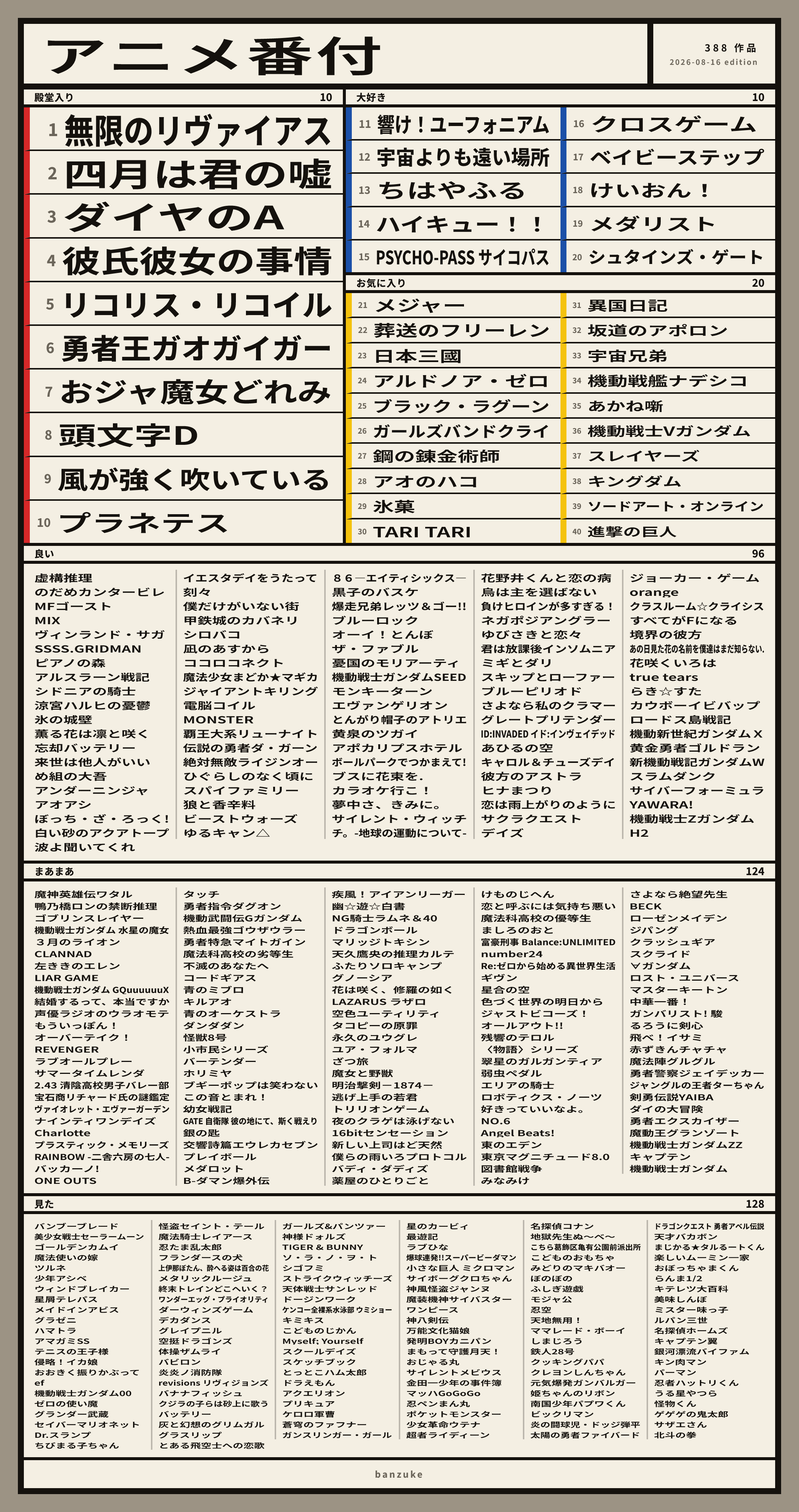
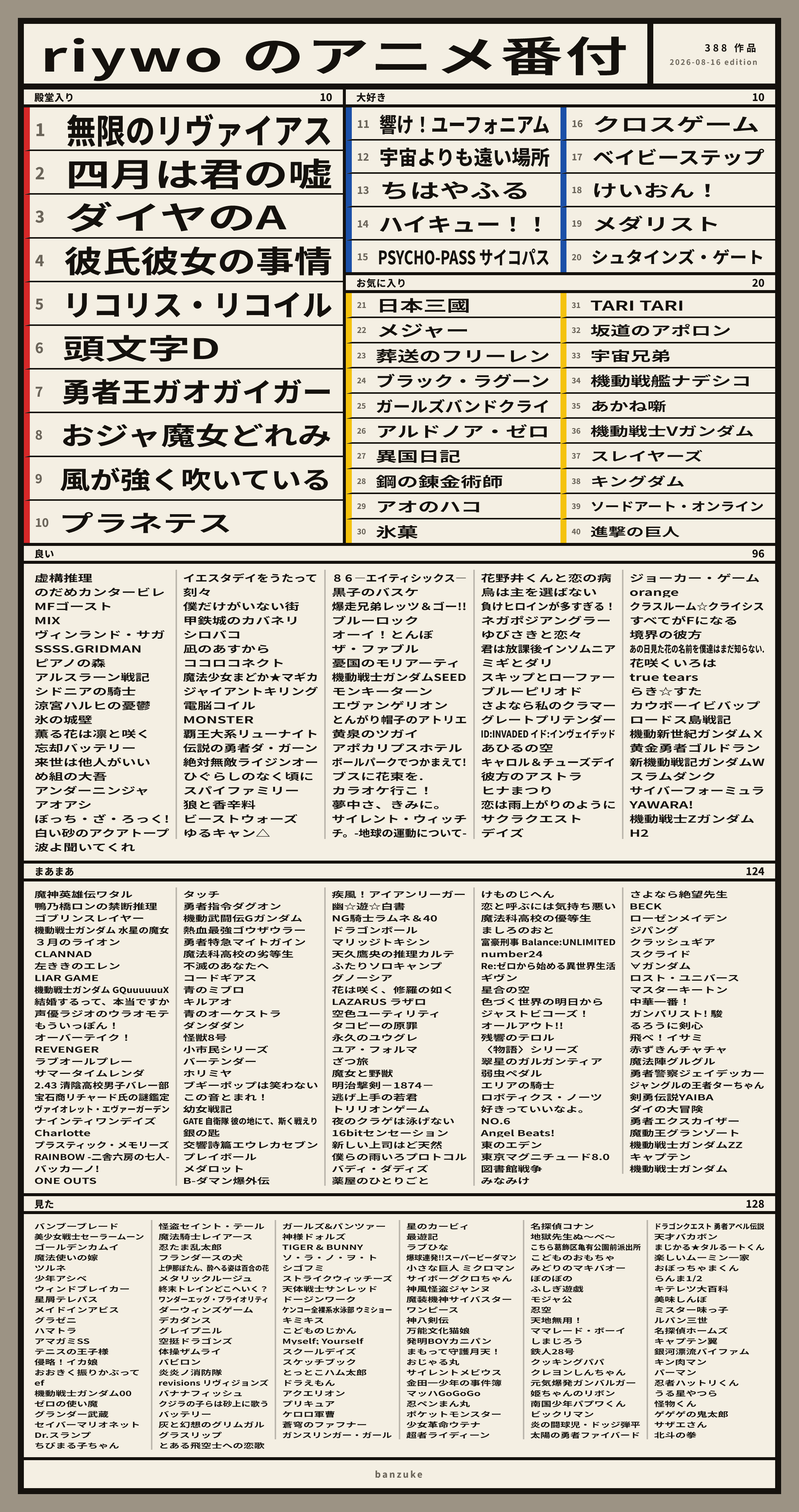
Retitle, reorder the top tiers, and fix the rank column
Data: title is now "riywo のアニメ番付", 頭文字D moves to #6 in 殿堂入り, and
お気に入り reshuffles (日本三國 to #21, アルドノア・ゼロ to #26, 異国日記 to #27).
README heading follows the new title.

Layout: rank numbers were right-aligned in a box sized for two digits, so
single digits sat 25px from the spine and only 8px from the title —
crowding the title with a void behind them, visible for #1-9 in 殿堂入り.
Set them flush left instead: 7px from the spine, 29px to the title. The box
is still sized for the widest number, so numbers and titles stay aligned
down the column. RANK_INDENT and RANK_GAP expose both distances.

Changed region(s): [[0.0625, 0.0, 0.6875, 0.3729], [0.5625, 0.0, 0.9375, 0.3729], [0.2188, 0.1243, 0.3438, 0.1554]]

diff --git a/banzuke.html b/banzuke.html
@@ -1,7 +1,7 @@
 <div style="width:1072px;background:#9c9384;padding:24px;font-family:'Banzuke Sans';color:#14110d">
   <div style="border:8px solid #14110d;background:#f4efe3;display:flex;flex-direction:column">
     <div style="height:88px;flex:none;display:flex;border-bottom:8px solid #14110d">
-      <div style="flex:1;min-width:0;overflow:hidden;display:flex;align-items:center;padding:0 22px;line-height:1.45"><span style="display:inline-block;white-space:nowrap;transform-origin:left center;font-size:56px;font-weight:632;font-family:'Banzuke Sans';letter-spacing:2px;transform:scaleX(1.6000);">アニメ番付</span></div>
+      <div style="flex:1;min-width:0;overflow:hidden;display:flex;align-items:center;padding:0 22px;line-height:1.45"><span style="display:inline-block;white-space:nowrap;transform-origin:left center;font-size:56px;font-weight:656;font-family:'Banzuke Sans';letter-spacing:2px;transform:scaleX(1.5028);">riywo のアニメ番付</span></div>
       <div style="flex:none;white-space:nowrap;display:flex;flex-direction:column;align-items:flex-end;justify-content:center;padding:0 22px;border-left:8px solid #14110d">
         <div style="font-size:13px;font-weight:700;letter-spacing:3.4px;">388 作品</div><div style="font-size:10px;font-weight:700;letter-spacing:1.5px;margin-top:3px;color:#6b655a;">2026-08-16 edition</div>
       </div>
@@ -13,35 +13,35 @@
     <div style="margin-left:auto;font-size:14px;font-weight:800">10</div>
   </div>
         <div style="flex:1;display:flex;flex-direction:column;min-width:0;min-height:0"><div style="flex:1;display:flex;align-items:center;min-height:0;overflow:hidden;border-left:8px solid #d62828;background:#f4efe3;border-bottom:2px solid #14110d;">
-    <div style="width:38px;padding-left:6px;text-align:right;color:#6b655a;font-weight:800;font-size:23px;line-height:1">1</div>
-    <div style="flex:1;min-width:0;overflow:hidden;padding:0 14px 0 8px;line-height:1.45"><span style="display:inline-block;white-space:nowrap;transform-origin:left center;font-size:46px;font-weight:800;font-family:'Banzuke Sans';letter-spacing:0px;transform:scaleX(0.8696);">無限のリヴァイアス</span></div>
+    <div style="width:37px;flex:none;padding-left:7px;text-align:left;color:#6b655a;font-weight:800;font-size:23px;line-height:1">1</div>
+    <div style="flex:1;min-width:0;overflow:hidden;padding:0 14px 0 12px;line-height:1.45"><span style="display:inline-block;white-space:nowrap;transform-origin:left center;font-size:46px;font-weight:800;font-family:'Banzuke Sans';letter-spacing:0px;transform:scaleX(0.8623);">無限のリヴァイアス</span></div>
   </div><div style="flex:1;display:flex;align-items:center;min-height:0;overflow:hidden;border-left:8px solid #d62828;background:#f4efe3;border-bottom:2px solid #14110d;">
-    <div style="width:37px;padding-left:6px;text-align:right;color:#6b655a;font-weight:800;font-size:22px;line-height:1">2</div>
-    <div style="flex:1;min-width:0;overflow:hidden;padding:0 14px 0 8px;line-height:1.45"><span style="display:inline-block;white-space:nowrap;transform-origin:left center;font-size:44px;font-weight:684;font-family:'Banzuke Sans';letter-spacing:0px;transform:scaleX(1.3674);">四月は君の嘘</span></div>
+    <div style="width:36px;flex:none;padding-left:7px;text-align:left;color:#6b655a;font-weight:800;font-size:22px;line-height:1">2</div>
+    <div style="flex:1;min-width:0;overflow:hidden;padding:0 14px 0 12px;line-height:1.45"><span style="display:inline-block;white-space:nowrap;transform-origin:left center;font-size:44px;font-weight:687;font-family:'Banzuke Sans';letter-spacing:0px;transform:scaleX(1.3561);">四月は君の嘘</span></div>
   </div><div style="flex:1;display:flex;align-items:center;min-height:0;overflow:hidden;border-left:8px solid #d62828;background:#f4efe3;border-bottom:2px solid #14110d;">
-    <div style="width:36px;padding-left:6px;text-align:right;color:#6b655a;font-weight:800;font-size:21.5px;line-height:1">3</div>
-    <div style="flex:1;min-width:0;overflow:hidden;padding:0 14px 0 8px;line-height:1.45"><span style="display:inline-block;white-space:nowrap;transform-origin:left center;font-size:43px;font-weight:653;font-family:'Banzuke Sans';letter-spacing:0px;transform:scaleX(1.5000);">ダイヤのA</span></div>
+    <div style="width:35px;flex:none;padding-left:7px;text-align:left;color:#6b655a;font-weight:800;font-size:21.5px;line-height:1">3</div>
+    <div style="flex:1;min-width:0;overflow:hidden;padding:0 14px 0 12px;line-height:1.45"><span style="display:inline-block;white-space:nowrap;transform-origin:left center;font-size:43px;font-weight:653;font-family:'Banzuke Sans';letter-spacing:0px;transform:scaleX(1.5000);">ダイヤのA</span></div>
   </div><div style="flex:1;display:flex;align-items:center;min-height:0;overflow:hidden;border-left:8px solid #d62828;background:#f4efe3;border-bottom:2px solid #14110d;">
-    <div style="width:35px;padding-left:6px;text-align:right;color:#6b655a;font-weight:800;font-size:20.5px;line-height:1">4</div>
-    <div style="flex:1;min-width:0;overflow:hidden;padding:0 14px 0 8px;line-height:1.45"><span style="display:inline-block;white-space:nowrap;transform-origin:left center;font-size:41px;font-weight:711;font-family:'Banzuke Sans';letter-spacing:0px;transform:scaleX(1.2648);">彼氏彼女の事情</span></div>
+    <div style="width:34px;flex:none;padding-left:7px;text-align:left;color:#6b655a;font-weight:800;font-size:20.5px;line-height:1">4</div>
+    <div style="flex:1;min-width:0;overflow:hidden;padding:0 14px 0 12px;line-height:1.45"><span style="display:inline-block;white-space:nowrap;transform-origin:left center;font-size:41px;font-weight:714;font-family:'Banzuke Sans';letter-spacing:0px;transform:scaleX(1.2544);">彼氏彼女の事情</span></div>
   </div><div style="flex:1;display:flex;align-items:center;min-height:0;overflow:hidden;border-left:8px solid #d62828;background:#f4efe3;border-bottom:2px solid #14110d;">
-    <div style="width:33px;padding-left:6px;text-align:right;color:#6b655a;font-weight:800;font-size:19.5px;line-height:1">5</div>
-    <div style="flex:1;min-width:0;overflow:hidden;padding:0 14px 0 8px;line-height:1.45"><span style="display:inline-block;white-space:nowrap;transform-origin:left center;font-size:39px;font-weight:785;font-family:'Banzuke Sans';letter-spacing:0px;transform:scaleX(1.0399);">リコリス・リコイル</span></div>
+    <div style="width:32px;flex:none;padding-left:7px;text-align:left;color:#6b655a;font-weight:800;font-size:19.5px;line-height:1">5</div>
+    <div style="flex:1;min-width:0;overflow:hidden;padding:0 14px 0 12px;line-height:1.45"><span style="display:inline-block;white-space:nowrap;transform-origin:left center;font-size:39px;font-weight:788;font-family:'Banzuke Sans';letter-spacing:0px;transform:scaleX(1.0313);">リコリス・リコイル</span></div>
   </div><div style="flex:1;display:flex;align-items:center;min-height:0;overflow:hidden;border-left:8px solid #d62828;background:#f4efe3;border-bottom:2px solid #14110d;">
-    <div style="width:33px;padding-left:6px;text-align:right;color:#6b655a;font-weight:800;font-size:19px;line-height:1">6</div>
-    <div style="flex:1;min-width:0;overflow:hidden;padding:0 14px 0 8px;line-height:1.45"><span style="display:inline-block;white-space:nowrap;transform-origin:left center;font-size:38px;font-weight:774;font-family:'Banzuke Sans';letter-spacing:0px;transform:scaleX(1.0673);">勇者王ガオガイガー</span></div>
+    <div style="width:32px;flex:none;padding-left:7px;text-align:left;color:#6b655a;font-weight:800;font-size:19px;line-height:1">6</div>
+    <div style="flex:1;min-width:0;overflow:hidden;padding:0 14px 0 12px;line-height:1.45"><span style="display:inline-block;white-space:nowrap;transform-origin:left center;font-size:38px;font-weight:653;font-family:'Banzuke Sans';letter-spacing:0px;transform:scaleX(1.5000);">頭文字D</span></div>
   </div><div style="flex:1;display:flex;align-items:center;min-height:0;overflow:hidden;border-left:8px solid #d62828;background:#f4efe3;border-bottom:2px solid #14110d;">
-    <div style="width:31px;padding-left:6px;text-align:right;color:#6b655a;font-weight:800;font-size:18px;line-height:1">7</div>
-    <div style="flex:1;min-width:0;overflow:hidden;padding:0 14px 0 8px;line-height:1.45"><span style="display:inline-block;white-space:nowrap;transform-origin:left center;font-size:36px;font-weight:707;font-family:'Banzuke Sans';letter-spacing:0px;transform:scaleX(1.2787);">おジャ魔女どれみ</span></div>
+    <div style="width:30px;flex:none;padding-left:7px;text-align:left;color:#6b655a;font-weight:800;font-size:18px;line-height:1">7</div>
+    <div style="flex:1;min-width:0;overflow:hidden;padding:0 14px 0 12px;line-height:1.45"><span style="display:inline-block;white-space:nowrap;transform-origin:left center;font-size:36px;font-weight:755;font-family:'Banzuke Sans';letter-spacing:0px;transform:scaleX(1.1235);">勇者王ガオガイガー</span></div>
   </div><div style="flex:1;display:flex;align-items:center;min-height:0;overflow:hidden;border-left:8px solid #d62828;background:#f4efe3;border-bottom:2px solid #14110d;">
-    <div style="width:30px;padding-left:6px;text-align:right;color:#6b655a;font-weight:800;font-size:17px;line-height:1">8</div>
-    <div style="flex:1;min-width:0;overflow:hidden;padding:0 14px 0 8px;line-height:1.45"><span style="display:inline-block;white-space:nowrap;transform-origin:left center;font-size:34px;font-weight:653;font-family:'Banzuke Sans';letter-spacing:0px;transform:scaleX(1.5000);">頭文字D</span></div>
+    <div style="width:29px;flex:none;padding-left:7px;text-align:left;color:#6b655a;font-weight:800;font-size:17px;line-height:1">8</div>
+    <div style="flex:1;min-width:0;overflow:hidden;padding:0 14px 0 12px;line-height:1.45"><span style="display:inline-block;white-space:nowrap;transform-origin:left center;font-size:34px;font-weight:689;font-family:'Banzuke Sans';letter-spacing:0px;transform:scaleX(1.3469);">おジャ魔女どれみ</span></div>
   </div><div style="flex:1;display:flex;align-items:center;min-height:0;overflow:hidden;border-left:8px solid #d62828;background:#f4efe3;border-bottom:2px solid #14110d;">
-    <div style="width:29px;padding-left:6px;text-align:right;color:#6b655a;font-weight:800;font-size:16.5px;line-height:1">9</div>
-    <div style="flex:1;min-width:0;overflow:hidden;padding:0 14px 0 8px;line-height:1.45"><span style="display:inline-block;white-space:nowrap;transform-origin:left center;font-size:33px;font-weight:718;font-family:'Banzuke Sans';letter-spacing:0px;transform:scaleX(1.2424);">風が強く吹いている</span></div>
+    <div style="width:28px;flex:none;padding-left:7px;text-align:left;color:#6b655a;font-weight:800;font-size:16.5px;line-height:1">9</div>
+    <div style="flex:1;min-width:0;overflow:hidden;padding:0 14px 0 12px;line-height:1.45"><span style="display:inline-block;white-space:nowrap;transform-origin:left center;font-size:33px;font-weight:721;font-family:'Banzuke Sans';letter-spacing:0px;transform:scaleX(1.2323);">風が強く吹いている</span></div>
   </div><div style="flex:1;display:flex;align-items:center;min-height:0;overflow:hidden;border-left:8px solid #d62828;background:#f4efe3;">
-    <div style="width:28px;padding-left:6px;text-align:right;color:#6b655a;font-weight:800;font-size:15.5px;line-height:1">10</div>
-    <div style="flex:1;min-width:0;overflow:hidden;padding:0 14px 0 8px;line-height:1.45"><span style="display:inline-block;white-space:nowrap;transform-origin:left center;font-size:31px;font-weight:653;font-family:'Banzuke Sans';letter-spacing:0px;transform:scaleX(1.5000);">プラネテス</span></div>
+    <div style="width:27px;flex:none;padding-left:7px;text-align:left;color:#6b655a;font-weight:800;font-size:15.5px;line-height:1">10</div>
+    <div style="flex:1;min-width:0;overflow:hidden;padding:0 14px 0 12px;line-height:1.45"><span style="display:inline-block;white-space:nowrap;transform-origin:left center;font-size:31px;font-weight:653;font-family:'Banzuke Sans';letter-spacing:0px;transform:scaleX(1.5000);">プラネテス</span></div>
   </div></div>
       </div>
       <div style="width:576px;display:flex;flex-direction:column"><div style="height:249px;flex:none;border-bottom:4px solid #14110d;display:flex;flex-direction:column;min-height:0">
@@ -50,35 +50,35 @@
     <div style="margin-left:auto;font-size:14px;font-weight:800">10</div>
   </div>
     <div style="flex:1;display:flex;min-height:0"><div style="flex:1;display:flex;flex-direction:column;min-width:0;min-height:0"><div style="flex:1;display:flex;align-items:center;min-height:0;overflow:hidden;border-left:8px solid #1b50a8;background:#f4efe3;border-bottom:2px solid #14110d;">
-    <div style="width:26px;padding-left:6px;text-align:right;color:#6b655a;font-weight:800;font-size:14px;line-height:1">11</div>
-    <div style="flex:1;min-width:0;overflow:hidden;padding:0 14px 0 8px;line-height:1.45"><span style="display:inline-block;white-space:nowrap;transform-origin:left center;font-size:28px;font-weight:800;font-family:'Banzuke Sans';letter-spacing:0px;transform:scaleX(0.8375);">響け！ユーフォニアム</span></div>
+    <div style="width:25px;flex:none;padding-left:7px;text-align:left;color:#6b655a;font-weight:800;font-size:14px;line-height:1">11</div>
+    <div style="flex:1;min-width:0;overflow:hidden;padding:0 14px 0 12px;line-height:1.45"><span style="display:inline-block;white-space:nowrap;transform-origin:left center;font-size:28px;font-weight:800;font-family:'Banzuke Sans';letter-spacing:0px;transform:scaleX(0.8267);">響け！ユーフォニアム</span></div>
   </div><div style="flex:1;display:flex;align-items:center;min-height:0;overflow:hidden;border-left:8px solid #1b50a8;background:#f4efe3;border-bottom:2px solid #14110d;">
-    <div style="width:25px;padding-left:6px;text-align:right;color:#6b655a;font-weight:800;font-size:13.5px;line-height:1">12</div>
-    <div style="flex:1;min-width:0;overflow:hidden;padding:0 14px 0 8px;line-height:1.45"><span style="display:inline-block;white-space:nowrap;transform-origin:left center;font-size:27px;font-weight:800;font-family:'Banzuke Sans';letter-spacing:0px;transform:scaleX(0.9588);">宇宙よりも遠い場所</span></div>
+    <div style="width:25px;flex:none;padding-left:7px;text-align:left;color:#6b655a;font-weight:800;font-size:13.5px;line-height:1">12</div>
+    <div style="flex:1;min-width:0;overflow:hidden;padding:0 14px 0 12px;line-height:1.45"><span style="display:inline-block;white-space:nowrap;transform-origin:left center;font-size:27px;font-weight:800;font-family:'Banzuke Sans';letter-spacing:0px;transform:scaleX(0.9424);">宇宙よりも遠い場所</span></div>
   </div><div style="flex:1;display:flex;align-items:center;min-height:0;overflow:hidden;border-left:8px solid #1b50a8;background:#f4efe3;border-bottom:2px solid #14110d;">
-    <div style="width:25px;padding-left:6px;text-align:right;color:#6b655a;font-weight:800;font-size:13.5px;line-height:1">13</div>
-    <div style="flex:1;min-width:0;overflow:hidden;padding:0 14px 0 8px;line-height:1.45"><span style="display:inline-block;white-space:nowrap;transform-origin:left center;font-size:27px;font-weight:653;font-family:'Banzuke Sans';letter-spacing:0px;transform:scaleX(1.5000);">ちはやふる</span></div>
+    <div style="width:25px;flex:none;padding-left:7px;text-align:left;color:#6b655a;font-weight:800;font-size:13.5px;line-height:1">13</div>
+    <div style="flex:1;min-width:0;overflow:hidden;padding:0 14px 0 12px;line-height:1.45"><span style="display:inline-block;white-space:nowrap;transform-origin:left center;font-size:27px;font-weight:653;font-family:'Banzuke Sans';letter-spacing:0px;transform:scaleX(1.5000);">ちはやふる</span></div>
   </div><div style="flex:1;display:flex;align-items:center;min-height:0;overflow:hidden;border-left:8px solid #1b50a8;background:#f4efe3;border-bottom:2px solid #14110d;">
-    <div style="width:24px;padding-left:6px;text-align:right;color:#6b655a;font-weight:800;font-size:13px;line-height:1">14</div>
-    <div style="flex:1;min-width:0;overflow:hidden;padding:0 14px 0 8px;line-height:1.45"><span style="display:inline-block;white-space:nowrap;transform-origin:left center;font-size:26px;font-weight:706;font-family:'Banzuke Sans';letter-spacing:0px;transform:scaleX(1.2857);">ハイキュー！！</span></div>
+    <div style="width:24px;flex:none;padding-left:7px;text-align:left;color:#6b655a;font-weight:800;font-size:13px;line-height:1">14</div>
+    <div style="flex:1;min-width:0;overflow:hidden;padding:0 14px 0 12px;line-height:1.45"><span style="display:inline-block;white-space:nowrap;transform-origin:left center;font-size:26px;font-weight:712;font-family:'Banzuke Sans';letter-spacing:0px;transform:scaleX(1.2637);">ハイキュー！！</span></div>
   </div><div style="flex:1;display:flex;align-items:center;min-height:0;overflow:hidden;border-left:8px solid #1b50a8;background:#f4efe3;">
-    <div style="width:24px;padding-left:6px;text-align:right;color:#6b655a;font-weight:800;font-size:12.5px;line-height:1">15</div>
-    <div style="flex:1;min-width:0;overflow:hidden;padding:0 14px 0 8px;line-height:1.45"><span style="display:inline-block;white-space:nowrap;transform-origin:left center;font-size:25px;font-weight:800;font-family:'Banzuke Sans';letter-spacing:0px;transform:scaleX(0.7672);">PSYCHO-PASS サイコパス</span></div>
+    <div style="width:23px;flex:none;padding-left:7px;text-align:left;color:#6b655a;font-weight:800;font-size:12.5px;line-height:1">15</div>
+    <div style="flex:1;min-width:0;overflow:hidden;padding:0 14px 0 12px;line-height:1.45"><span style="display:inline-block;white-space:nowrap;transform-origin:left center;font-size:25px;font-weight:800;font-family:'Banzuke Sans';letter-spacing:0px;transform:scaleX(0.7574);">PSYCHO-PASS サイコパス</span></div>
   </div></div><div style="flex:1;display:flex;flex-direction:column;min-width:0;min-height:0"><div style="flex:1;display:flex;align-items:center;min-height:0;overflow:hidden;border-left:8px solid #1b50a8;background:#f4efe3;border-bottom:2px solid #14110d;">
-    <div style="width:24px;padding-left:6px;text-align:right;color:#6b655a;font-weight:800;font-size:12.5px;line-height:1">16</div>
-    <div style="flex:1;min-width:0;overflow:hidden;padding:0 14px 0 8px;line-height:1.45"><span style="display:inline-block;white-space:nowrap;transform-origin:left center;font-size:25px;font-weight:653;font-family:'Banzuke Sans';letter-spacing:0px;transform:scaleX(1.5000);">クロスゲーム</span></div>
+    <div style="width:23px;flex:none;padding-left:7px;text-align:left;color:#6b655a;font-weight:800;font-size:12.5px;line-height:1">16</div>
+    <div style="flex:1;min-width:0;overflow:hidden;padding:0 14px 0 12px;line-height:1.45"><span style="display:inline-block;white-space:nowrap;transform-origin:left center;font-size:25px;font-weight:653;font-family:'Banzuke Sans';letter-spacing:0px;transform:scaleX(1.5000);">クロスゲーム</span></div>
   </div><div style="flex:1;display:flex;align-items:center;min-height:0;overflow:hidden;border-left:8px solid #1b50a8;background:#f4efe3;border-bottom:2px solid #14110d;">
-    <div style="width:23px;padding-left:6px;text-align:right;color:#6b655a;font-weight:800;font-size:12px;line-height:1">17</div>
-    <div style="flex:1;min-width:0;overflow:hidden;padding:0 14px 0 8px;line-height:1.45"><span style="display:inline-block;white-space:nowrap;transform-origin:left center;font-size:24px;font-weight:721;font-family:'Banzuke Sans';letter-spacing:0px;transform:scaleX(1.2304);">ベイビーステップ</span></div>
+    <div style="width:23px;flex:none;padding-left:7px;text-align:left;color:#6b655a;font-weight:800;font-size:12px;line-height:1">17</div>
+    <div style="flex:1;min-width:0;overflow:hidden;padding:0 14px 0 12px;line-height:1.45"><span style="display:inline-block;white-space:nowrap;transform-origin:left center;font-size:24px;font-weight:727;font-family:'Banzuke Sans';letter-spacing:0px;transform:scaleX(1.2094);">ベイビーステップ</span></div>
   </div><div style="flex:1;display:flex;align-items:center;min-height:0;overflow:hidden;border-left:8px solid #1b50a8;background:#f4efe3;border-bottom:2px solid #14110d;">
-    <div style="width:22px;padding-left:6px;text-align:right;color:#6b655a;font-weight:800;font-size:11.5px;line-height:1">18</div>
-    <div style="flex:1;min-width:0;overflow:hidden;padding:0 14px 0 8px;line-height:1.45"><span style="display:inline-block;white-space:nowrap;transform-origin:left center;font-size:23px;font-weight:653;font-family:'Banzuke Sans';letter-spacing:0px;transform:scaleX(1.5000);">けいおん！</span></div>
+    <div style="width:22px;flex:none;padding-left:7px;text-align:left;color:#6b655a;font-weight:800;font-size:11.5px;line-height:1">18</div>
+    <div style="flex:1;min-width:0;overflow:hidden;padding:0 14px 0 12px;line-height:1.45"><span style="display:inline-block;white-space:nowrap;transform-origin:left center;font-size:23px;font-weight:653;font-family:'Banzuke Sans';letter-spacing:0px;transform:scaleX(1.5000);">けいおん！</span></div>
   </div><div style="flex:1;display:flex;align-items:center;min-height:0;overflow:hidden;border-left:8px solid #1b50a8;background:#f4efe3;border-bottom:2px solid #14110d;">
-    <div style="width:22px;padding-left:6px;text-align:right;color:#6b655a;font-weight:800;font-size:11.5px;line-height:1">19</div>
-    <div style="flex:1;min-width:0;overflow:hidden;padding:0 14px 0 8px;line-height:1.45"><span style="display:inline-block;white-space:nowrap;transform-origin:left center;font-size:23px;font-weight:653;font-family:'Banzuke Sans';letter-spacing:0px;transform:scaleX(1.5000);">メダリスト</span></div>
+    <div style="width:22px;flex:none;padding-left:7px;text-align:left;color:#6b655a;font-weight:800;font-size:11.5px;line-height:1">19</div>
+    <div style="flex:1;min-width:0;overflow:hidden;padding:0 14px 0 12px;line-height:1.45"><span style="display:inline-block;white-space:nowrap;transform-origin:left center;font-size:23px;font-weight:653;font-family:'Banzuke Sans';letter-spacing:0px;transform:scaleX(1.5000);">メダリスト</span></div>
   </div><div style="flex:1;display:flex;align-items:center;min-height:0;overflow:hidden;border-left:8px solid #1b50a8;background:#f4efe3;">
-    <div style="width:21px;padding-left:6px;text-align:right;color:#6b655a;font-weight:800;font-size:11px;line-height:1">20</div>
-    <div style="flex:1;min-width:0;overflow:hidden;padding:0 14px 0 8px;line-height:1.45"><span style="display:inline-block;white-space:nowrap;transform-origin:left center;font-size:22px;font-weight:771;font-family:'Banzuke Sans';letter-spacing:0px;transform:scaleX(1.0773);">シュタインズ・ゲート</span></div>
+    <div style="width:21px;flex:none;padding-left:7px;text-align:left;color:#6b655a;font-weight:800;font-size:11px;line-height:1">20</div>
+    <div style="flex:1;min-width:0;overflow:hidden;padding:0 14px 0 12px;line-height:1.45"><span style="display:inline-block;white-space:nowrap;transform-origin:left center;font-size:22px;font-weight:777;font-family:'Banzuke Sans';letter-spacing:0px;transform:scaleX(1.0591);">シュタインズ・ゲート</span></div>
   </div></div></div>
   </div><div style="flex:1;display:flex;flex-direction:column;min-height:0">
     <div style="height:24px;flex:none;display:flex;align-items:center;padding:0 14px;border-bottom:4px solid #14110d">
@@ -86,65 +86,65 @@
     <div style="margin-left:auto;font-size:14px;font-weight:800">20</div>
   </div>
     <div style="flex:1;display:flex;min-height:0"><div style="flex:1;display:flex;flex-direction:column;min-width:0;min-height:0"><div style="flex:1;display:flex;align-items:center;min-height:0;overflow:hidden;border-left:8px solid #f4c20d;background:#f4efe3;border-bottom:2px solid #14110d;">
-    <div style="width:21px;padding-left:6px;text-align:right;color:#6b655a;font-weight:800;font-size:10.5px;line-height:1">21</div>
-    <div style="flex:1;min-width:0;overflow:hidden;padding:0 14px 0 8px;line-height:1.45"><span style="display:inline-block;white-space:nowrap;transform-origin:left center;font-size:21px;font-weight:653;font-family:'Banzuke Sans';letter-spacing:0px;transform:scaleX(1.5000);">メジャー</span></div>
+    <div style="width:21px;flex:none;padding-left:7px;text-align:left;color:#6b655a;font-weight:800;font-size:10.5px;line-height:1">21</div>
+    <div style="flex:1;min-width:0;overflow:hidden;padding:0 14px 0 12px;line-height:1.45"><span style="display:inline-block;white-space:nowrap;transform-origin:left center;font-size:21px;font-weight:653;font-family:'Banzuke Sans';letter-spacing:0px;transform:scaleX(1.5000);">日本三國</span></div>
   </div><div style="flex:1;display:flex;align-items:center;min-height:0;overflow:hidden;border-left:8px solid #f4c20d;background:#f4efe3;border-bottom:2px solid #14110d;">
-    <div style="width:21px;padding-left:6px;text-align:right;color:#6b655a;font-weight:800;font-size:10.5px;line-height:1">22</div>
-    <div style="flex:1;min-width:0;overflow:hidden;padding:0 14px 0 8px;line-height:1.45"><span style="display:inline-block;white-space:nowrap;transform-origin:left center;font-size:21px;font-weight:674;font-family:'Banzuke Sans';letter-spacing:0px;transform:scaleX(1.4107);">葬送のフリーレン</span></div>
+    <div style="width:21px;flex:none;padding-left:7px;text-align:left;color:#6b655a;font-weight:800;font-size:10.5px;line-height:1">22</div>
+    <div style="flex:1;min-width:0;overflow:hidden;padding:0 14px 0 12px;line-height:1.45"><span style="display:inline-block;white-space:nowrap;transform-origin:left center;font-size:21px;font-weight:653;font-family:'Banzuke Sans';letter-spacing:0px;transform:scaleX(1.5000);">メジャー</span></div>
   </div><div style="flex:1;display:flex;align-items:center;min-height:0;overflow:hidden;border-left:8px solid #f4c20d;background:#f4efe3;border-bottom:2px solid #14110d;">
-    <div style="width:20px;padding-left:6px;text-align:right;color:#6b655a;font-weight:800;font-size:10px;line-height:1">23</div>
-    <div style="flex:1;min-width:0;overflow:hidden;padding:0 14px 0 8px;line-height:1.45"><span style="display:inline-block;white-space:nowrap;transform-origin:left center;font-size:20px;font-weight:653;font-family:'Banzuke Sans';letter-spacing:0px;transform:scaleX(1.5000);">日本三國</span></div>
+    <div style="width:20px;flex:none;padding-left:7px;text-align:left;color:#6b655a;font-weight:800;font-size:10px;line-height:1">23</div>
+    <div style="flex:1;min-width:0;overflow:hidden;padding:0 14px 0 12px;line-height:1.45"><span style="display:inline-block;white-space:nowrap;transform-origin:left center;font-size:20px;font-weight:662;font-family:'Banzuke Sans';letter-spacing:0px;transform:scaleX(1.4625);">葬送のフリーレン</span></div>
   </div><div style="flex:1;display:flex;align-items:center;min-height:0;overflow:hidden;border-left:8px solid #f4c20d;background:#f4efe3;border-bottom:2px solid #14110d;">
-    <div style="width:20px;padding-left:6px;text-align:right;color:#6b655a;font-weight:800;font-size:10px;line-height:1">24</div>
-    <div style="flex:1;min-width:0;overflow:hidden;padding:0 14px 0 8px;line-height:1.45"><span style="display:inline-block;white-space:nowrap;transform-origin:left center;font-size:20px;font-weight:656;font-family:'Banzuke Sans';letter-spacing:0px;transform:scaleX(1.4875);">アルドノア・ゼロ</span></div>
+    <div style="width:20px;flex:none;padding-left:7px;text-align:left;color:#6b655a;font-weight:800;font-size:10px;line-height:1">24</div>
+    <div style="flex:1;min-width:0;overflow:hidden;padding:0 14px 0 12px;line-height:1.45"><span style="display:inline-block;white-space:nowrap;transform-origin:left center;font-size:20px;font-weight:700;font-family:'Banzuke Sans';letter-spacing:0px;transform:scaleX(1.3073);">ブラック・ラグーン</span></div>
   </div><div style="flex:1;display:flex;align-items:center;min-height:0;overflow:hidden;border-left:8px solid #f4c20d;background:#f4efe3;border-bottom:2px solid #14110d;">
-    <div style="width:20px;padding-left:6px;text-align:right;color:#6b655a;font-weight:800;font-size:10px;line-height:1">25</div>
-    <div style="flex:1;min-width:0;overflow:hidden;padding:0 14px 0 8px;line-height:1.45"><span style="display:inline-block;white-space:nowrap;transform-origin:left center;font-size:20px;font-weight:694;font-family:'Banzuke Sans';letter-spacing:0px;transform:scaleX(1.3296);">ブラック・ラグーン</span></div>
+    <div style="width:20px;flex:none;padding-left:7px;text-align:left;color:#6b655a;font-weight:800;font-size:10px;line-height:1">25</div>
+    <div style="flex:1;min-width:0;overflow:hidden;padding:0 14px 0 12px;line-height:1.45"><span style="display:inline-block;white-space:nowrap;transform-origin:left center;font-size:20px;font-weight:741;font-family:'Banzuke Sans';letter-spacing:0px;transform:scaleX(1.1642);">ガールズバンドクライ</span></div>
   </div><div style="flex:1;display:flex;align-items:center;min-height:0;overflow:hidden;border-left:8px solid #f4c20d;background:#f4efe3;border-bottom:2px solid #14110d;">
-    <div style="width:20px;padding-left:6px;text-align:right;color:#6b655a;font-weight:800;font-size:10px;line-height:1">26</div>
-    <div style="flex:1;min-width:0;overflow:hidden;padding:0 14px 0 8px;line-height:1.45"><span style="display:inline-block;white-space:nowrap;transform-origin:left center;font-size:20px;font-weight:735;font-family:'Banzuke Sans';letter-spacing:0px;transform:scaleX(1.1841);">ガールズバンドクライ</span></div>
+    <div style="width:20px;flex:none;padding-left:7px;text-align:left;color:#6b655a;font-weight:800;font-size:10px;line-height:1">26</div>
+    <div style="flex:1;min-width:0;overflow:hidden;padding:0 14px 0 12px;line-height:1.45"><span style="display:inline-block;white-space:nowrap;transform-origin:left center;font-size:20px;font-weight:662;font-family:'Banzuke Sans';letter-spacing:0px;transform:scaleX(1.4625);">アルドノア・ゼロ</span></div>
   </div><div style="flex:1;display:flex;align-items:center;min-height:0;overflow:hidden;border-left:8px solid #f4c20d;background:#f4efe3;border-bottom:2px solid #14110d;">
-    <div style="width:20px;padding-left:6px;text-align:right;color:#6b655a;font-weight:800;font-size:10px;line-height:1">27</div>
-    <div style="flex:1;min-width:0;overflow:hidden;padding:0 14px 0 8px;line-height:1.45"><span style="display:inline-block;white-space:nowrap;transform-origin:left center;font-size:19px;font-weight:653;font-family:'Banzuke Sans';letter-spacing:0px;transform:scaleX(1.5000);">鋼の錬金術師</span></div>
+    <div style="width:20px;flex:none;padding-left:7px;text-align:left;color:#6b655a;font-weight:800;font-size:10px;line-height:1">27</div>
+    <div style="flex:1;min-width:0;overflow:hidden;padding:0 14px 0 12px;line-height:1.45"><span style="display:inline-block;white-space:nowrap;transform-origin:left center;font-size:19px;font-weight:653;font-family:'Banzuke Sans';letter-spacing:0px;transform:scaleX(1.5000);">異国日記</span></div>
   </div><div style="flex:1;display:flex;align-items:center;min-height:0;overflow:hidden;border-left:8px solid #f4c20d;background:#f4efe3;border-bottom:2px solid #14110d;">
-    <div style="width:20px;padding-left:6px;text-align:right;color:#6b655a;font-weight:800;font-size:10px;line-height:1">28</div>
-    <div style="flex:1;min-width:0;overflow:hidden;padding:0 14px 0 8px;line-height:1.45"><span style="display:inline-block;white-space:nowrap;transform-origin:left center;font-size:19px;font-weight:653;font-family:'Banzuke Sans';letter-spacing:0px;transform:scaleX(1.5000);">アオのハコ</span></div>
+    <div style="width:20px;flex:none;padding-left:7px;text-align:left;color:#6b655a;font-weight:800;font-size:10px;line-height:1">28</div>
+    <div style="flex:1;min-width:0;overflow:hidden;padding:0 14px 0 12px;line-height:1.45"><span style="display:inline-block;white-space:nowrap;transform-origin:left center;font-size:19px;font-weight:653;font-family:'Banzuke Sans';letter-spacing:0px;transform:scaleX(1.5000);">鋼の錬金術師</span></div>
   </div><div style="flex:1;display:flex;align-items:center;min-height:0;overflow:hidden;border-left:8px solid #f4c20d;background:#f4efe3;border-bottom:2px solid #14110d;">
-    <div style="width:20px;padding-left:6px;text-align:right;color:#6b655a;font-weight:800;font-size:10px;line-height:1">29</div>
-    <div style="flex:1;min-width:0;overflow:hidden;padding:0 14px 0 8px;line-height:1.45"><span style="display:inline-block;white-space:nowrap;transform-origin:left center;font-size:19px;font-weight:653;font-family:'Banzuke Sans';letter-spacing:0px;transform:scaleX(1.5000);">氷菓</span></div>
+    <div style="width:20px;flex:none;padding-left:7px;text-align:left;color:#6b655a;font-weight:800;font-size:10px;line-height:1">29</div>
+    <div style="flex:1;min-width:0;overflow:hidden;padding:0 14px 0 12px;line-height:1.45"><span style="display:inline-block;white-space:nowrap;transform-origin:left center;font-size:19px;font-weight:653;font-family:'Banzuke Sans';letter-spacing:0px;transform:scaleX(1.5000);">アオのハコ</span></div>
   </div><div style="flex:1;display:flex;align-items:center;min-height:0;overflow:hidden;border-left:8px solid #f4c20d;background:#f4efe3;">
-    <div style="width:20px;padding-left:6px;text-align:right;color:#6b655a;font-weight:800;font-size:10px;line-height:1">30</div>
-    <div style="flex:1;min-width:0;overflow:hidden;padding:0 14px 0 8px;line-height:1.45"><span style="display:inline-block;white-space:nowrap;transform-origin:left center;font-size:19px;font-weight:653;font-family:'Banzuke Sans';letter-spacing:0px;transform:scaleX(1.5000);">TARI TARI</span></div>
+    <div style="width:20px;flex:none;padding-left:7px;text-align:left;color:#6b655a;font-weight:800;font-size:10px;line-height:1">30</div>
+    <div style="flex:1;min-width:0;overflow:hidden;padding:0 14px 0 12px;line-height:1.45"><span style="display:inline-block;white-space:nowrap;transform-origin:left center;font-size:19px;font-weight:653;font-family:'Banzuke Sans';letter-spacing:0px;transform:scaleX(1.5000);">氷菓</span></div>
   </div></div><div style="flex:1;display:flex;flex-direction:column;min-width:0;min-height:0"><div style="flex:1;display:flex;align-items:center;min-height:0;overflow:hidden;border-left:8px solid #f4c20d;background:#f4efe3;border-bottom:2px solid #14110d;">
-    <div style="width:20px;padding-left:6px;text-align:right;color:#6b655a;font-weight:800;font-size:10px;line-height:1">31</div>
-    <div style="flex:1;min-width:0;overflow:hidden;padding:0 14px 0 8px;line-height:1.45"><span style="display:inline-block;white-space:nowrap;transform-origin:left center;font-size:18px;font-weight:653;font-family:'Banzuke Sans';letter-spacing:0px;transform:scaleX(1.5000);">異国日記</span></div>
+    <div style="width:20px;flex:none;padding-left:7px;text-align:left;color:#6b655a;font-weight:800;font-size:10px;line-height:1">31</div>
+    <div style="flex:1;min-width:0;overflow:hidden;padding:0 14px 0 12px;line-height:1.45"><span style="display:inline-block;white-space:nowrap;transform-origin:left center;font-size:18px;font-weight:653;font-family:'Banzuke Sans';letter-spacing:0px;transform:scaleX(1.5000);">TARI TARI</span></div>
   </div><div style="flex:1;display:flex;align-items:center;min-height:0;overflow:hidden;border-left:8px solid #f4c20d;background:#f4efe3;border-bottom:2px solid #14110d;">
-    <div style="width:20px;padding-left:6px;text-align:right;color:#6b655a;font-weight:800;font-size:10px;line-height:1">32</div>
-    <div style="flex:1;min-width:0;overflow:hidden;padding:0 14px 0 8px;line-height:1.45"><span style="display:inline-block;white-space:nowrap;transform-origin:left center;font-size:18px;font-weight:653;font-family:'Banzuke Sans';letter-spacing:0px;transform:scaleX(1.5000);">坂道のアポロン</span></div>
+    <div style="width:20px;flex:none;padding-left:7px;text-align:left;color:#6b655a;font-weight:800;font-size:10px;line-height:1">32</div>
+    <div style="flex:1;min-width:0;overflow:hidden;padding:0 14px 0 12px;line-height:1.45"><span style="display:inline-block;white-space:nowrap;transform-origin:left center;font-size:18px;font-weight:653;font-family:'Banzuke Sans';letter-spacing:0px;transform:scaleX(1.5000);">坂道のアポロン</span></div>
   </div><div style="flex:1;display:flex;align-items:center;min-height:0;overflow:hidden;border-left:8px solid #f4c20d;background:#f4efe3;border-bottom:2px solid #14110d;">
-    <div style="width:20px;padding-left:6px;text-align:right;color:#6b655a;font-weight:800;font-size:10px;line-height:1">33</div>
-    <div style="flex:1;min-width:0;overflow:hidden;padding:0 14px 0 8px;line-height:1.45"><span style="display:inline-block;white-space:nowrap;transform-origin:left center;font-size:18px;font-weight:653;font-family:'Banzuke Sans';letter-spacing:0px;transform:scaleX(1.5000);">宇宙兄弟</span></div>
+    <div style="width:20px;flex:none;padding-left:7px;text-align:left;color:#6b655a;font-weight:800;font-size:10px;line-height:1">33</div>
+    <div style="flex:1;min-width:0;overflow:hidden;padding:0 14px 0 12px;line-height:1.45"><span style="display:inline-block;white-space:nowrap;transform-origin:left center;font-size:18px;font-weight:653;font-family:'Banzuke Sans';letter-spacing:0px;transform:scaleX(1.5000);">宇宙兄弟</span></div>
   </div><div style="flex:1;display:flex;align-items:center;min-height:0;overflow:hidden;border-left:8px solid #f4c20d;background:#f4efe3;border-bottom:2px solid #14110d;">
-    <div style="width:20px;padding-left:6px;text-align:right;color:#6b655a;font-weight:800;font-size:10px;line-height:1">34</div>
-    <div style="flex:1;min-width:0;overflow:hidden;padding:0 14px 0 8px;line-height:1.45"><span style="display:inline-block;white-space:nowrap;transform-origin:left center;font-size:18px;font-weight:653;font-family:'Banzuke Sans';letter-spacing:0px;transform:scaleX(1.5000);">機動戦艦ナデシコ</span></div>
+    <div style="width:20px;flex:none;padding-left:7px;text-align:left;color:#6b655a;font-weight:800;font-size:10px;line-height:1">34</div>
+    <div style="flex:1;min-width:0;overflow:hidden;padding:0 14px 0 12px;line-height:1.45"><span style="display:inline-block;white-space:nowrap;transform-origin:left center;font-size:18px;font-weight:653;font-family:'Banzuke Sans';letter-spacing:0px;transform:scaleX(1.5000);">機動戦艦ナデシコ</span></div>
   </div><div style="flex:1;display:flex;align-items:center;min-height:0;overflow:hidden;border-left:8px solid #f4c20d;background:#f4efe3;border-bottom:2px solid #14110d;">
-    <div style="width:20px;padding-left:6px;text-align:right;color:#6b655a;font-weight:800;font-size:10px;line-height:1">35</div>
-    <div style="flex:1;min-width:0;overflow:hidden;padding:0 14px 0 8px;line-height:1.45"><span style="display:inline-block;white-space:nowrap;transform-origin:left center;font-size:17px;font-weight:653;font-family:'Banzuke Sans';letter-spacing:0px;transform:scaleX(1.5000);">あかね噺</span></div>
+    <div style="width:20px;flex:none;padding-left:7px;text-align:left;color:#6b655a;font-weight:800;font-size:10px;line-height:1">35</div>
+    <div style="flex:1;min-width:0;overflow:hidden;padding:0 14px 0 12px;line-height:1.45"><span style="display:inline-block;white-space:nowrap;transform-origin:left center;font-size:17px;font-weight:653;font-family:'Banzuke Sans';letter-spacing:0px;transform:scaleX(1.5000);">あかね噺</span></div>
   </div><div style="flex:1;display:flex;align-items:center;min-height:0;overflow:hidden;border-left:8px solid #f4c20d;background:#f4efe3;border-bottom:2px solid #14110d;">
-    <div style="width:20px;padding-left:6px;text-align:right;color:#6b655a;font-weight:800;font-size:10px;line-height:1">36</div>
-    <div style="flex:1;min-width:0;overflow:hidden;padding:0 14px 0 8px;line-height:1.45"><span style="display:inline-block;white-space:nowrap;transform-origin:left center;font-size:17px;font-weight:653;font-family:'Banzuke Sans';letter-spacing:0px;transform:scaleX(1.5000);">機動戦士Vガンダム</span></div>
+    <div style="width:20px;flex:none;padding-left:7px;text-align:left;color:#6b655a;font-weight:800;font-size:10px;line-height:1">36</div>
+    <div style="flex:1;min-width:0;overflow:hidden;padding:0 14px 0 12px;line-height:1.45"><span style="display:inline-block;white-space:nowrap;transform-origin:left center;font-size:17px;font-weight:653;font-family:'Banzuke Sans';letter-spacing:0px;transform:scaleX(1.5000);">機動戦士Vガンダム</span></div>
   </div><div style="flex:1;display:flex;align-items:center;min-height:0;overflow:hidden;border-left:8px solid #f4c20d;background:#f4efe3;border-bottom:2px solid #14110d;">
-    <div style="width:20px;padding-left:6px;text-align:right;color:#6b655a;font-weight:800;font-size:10px;line-height:1">37</div>
-    <div style="flex:1;min-width:0;overflow:hidden;padding:0 14px 0 8px;line-height:1.45"><span style="display:inline-block;white-space:nowrap;transform-origin:left center;font-size:17px;font-weight:653;font-family:'Banzuke Sans';letter-spacing:0px;transform:scaleX(1.5000);">スレイヤーズ</span></div>
+    <div style="width:20px;flex:none;padding-left:7px;text-align:left;color:#6b655a;font-weight:800;font-size:10px;line-height:1">37</div>
+    <div style="flex:1;min-width:0;overflow:hidden;padding:0 14px 0 12px;line-height:1.45"><span style="display:inline-block;white-space:nowrap;transform-origin:left center;font-size:17px;font-weight:653;font-family:'Banzuke Sans';letter-spacing:0px;transform:scaleX(1.5000);">スレイヤーズ</span></div>
   </div><div style="flex:1;display:flex;align-items:center;min-height:0;overflow:hidden;border-left:8px solid #f4c20d;background:#f4efe3;border-bottom:2px solid #14110d;">
-    <div style="width:20px;padding-left:6px;text-align:right;color:#6b655a;font-weight:800;font-size:10px;line-height:1">38</div>
-    <div style="flex:1;min-width:0;overflow:hidden;padding:0 14px 0 8px;line-height:1.45"><span style="display:inline-block;white-space:nowrap;transform-origin:left center;font-size:17px;font-weight:653;font-family:'Banzuke Sans';letter-spacing:0px;transform:scaleX(1.5000);">キングダム</span></div>
+    <div style="width:20px;flex:none;padding-left:7px;text-align:left;color:#6b655a;font-weight:800;font-size:10px;line-height:1">38</div>
+    <div style="flex:1;min-width:0;overflow:hidden;padding:0 14px 0 12px;line-height:1.45"><span style="display:inline-block;white-space:nowrap;transform-origin:left center;font-size:17px;font-weight:653;font-family:'Banzuke Sans';letter-spacing:0px;transform:scaleX(1.5000);">キングダム</span></div>
   </div><div style="flex:1;display:flex;align-items:center;min-height:0;overflow:hidden;border-left:8px solid #f4c20d;background:#f4efe3;border-bottom:2px solid #14110d;">
-    <div style="width:20px;padding-left:6px;text-align:right;color:#6b655a;font-weight:800;font-size:10px;line-height:1">39</div>
-    <div style="flex:1;min-width:0;overflow:hidden;padding:0 14px 0 8px;line-height:1.45"><span style="display:inline-block;white-space:nowrap;transform-origin:left center;font-size:16px;font-weight:719;font-family:'Banzuke Sans';letter-spacing:0px;transform:scaleX(1.2396);">ソードアート・オンライン</span></div>
+    <div style="width:20px;flex:none;padding-left:7px;text-align:left;color:#6b655a;font-weight:800;font-size:10px;line-height:1">39</div>
+    <div style="flex:1;min-width:0;overflow:hidden;padding:0 14px 0 12px;line-height:1.45"><span style="display:inline-block;white-space:nowrap;transform-origin:left center;font-size:16px;font-weight:725;font-family:'Banzuke Sans';letter-spacing:0px;transform:scaleX(1.2188);">ソードアート・オンライン</span></div>
   </div><div style="flex:1;display:flex;align-items:center;min-height:0;overflow:hidden;border-left:8px solid #f4c20d;background:#f4efe3;">
-    <div style="width:20px;padding-left:6px;text-align:right;color:#6b655a;font-weight:800;font-size:10px;line-height:1">40</div>
-    <div style="flex:1;min-width:0;overflow:hidden;padding:0 14px 0 8px;line-height:1.45"><span style="display:inline-block;white-space:nowrap;transform-origin:left center;font-size:16px;font-weight:653;font-family:'Banzuke Sans';letter-spacing:0px;transform:scaleX(1.5000);">進撃の巨人</span></div>
+    <div style="width:20px;flex:none;padding-left:7px;text-align:left;color:#6b655a;font-weight:800;font-size:10px;line-height:1">40</div>
+    <div style="flex:1;min-width:0;overflow:hidden;padding:0 14px 0 12px;line-height:1.45"><span style="display:inline-block;white-space:nowrap;transform-origin:left center;font-size:16px;font-weight:653;font-family:'Banzuke Sans';letter-spacing:0px;transform:scaleX(1.5000);">進撃の巨人</span></div>
   </div></div></div>
   </div></div>
     </div>

diff --git a/README.md b/README.md
@@ -1,3 +1,3 @@
-# アニメ番付
+# riywo のアニメ番付
 
-![アニメ番付](banzuke.png)
+![riywo のアニメ番付](banzuke.png)
